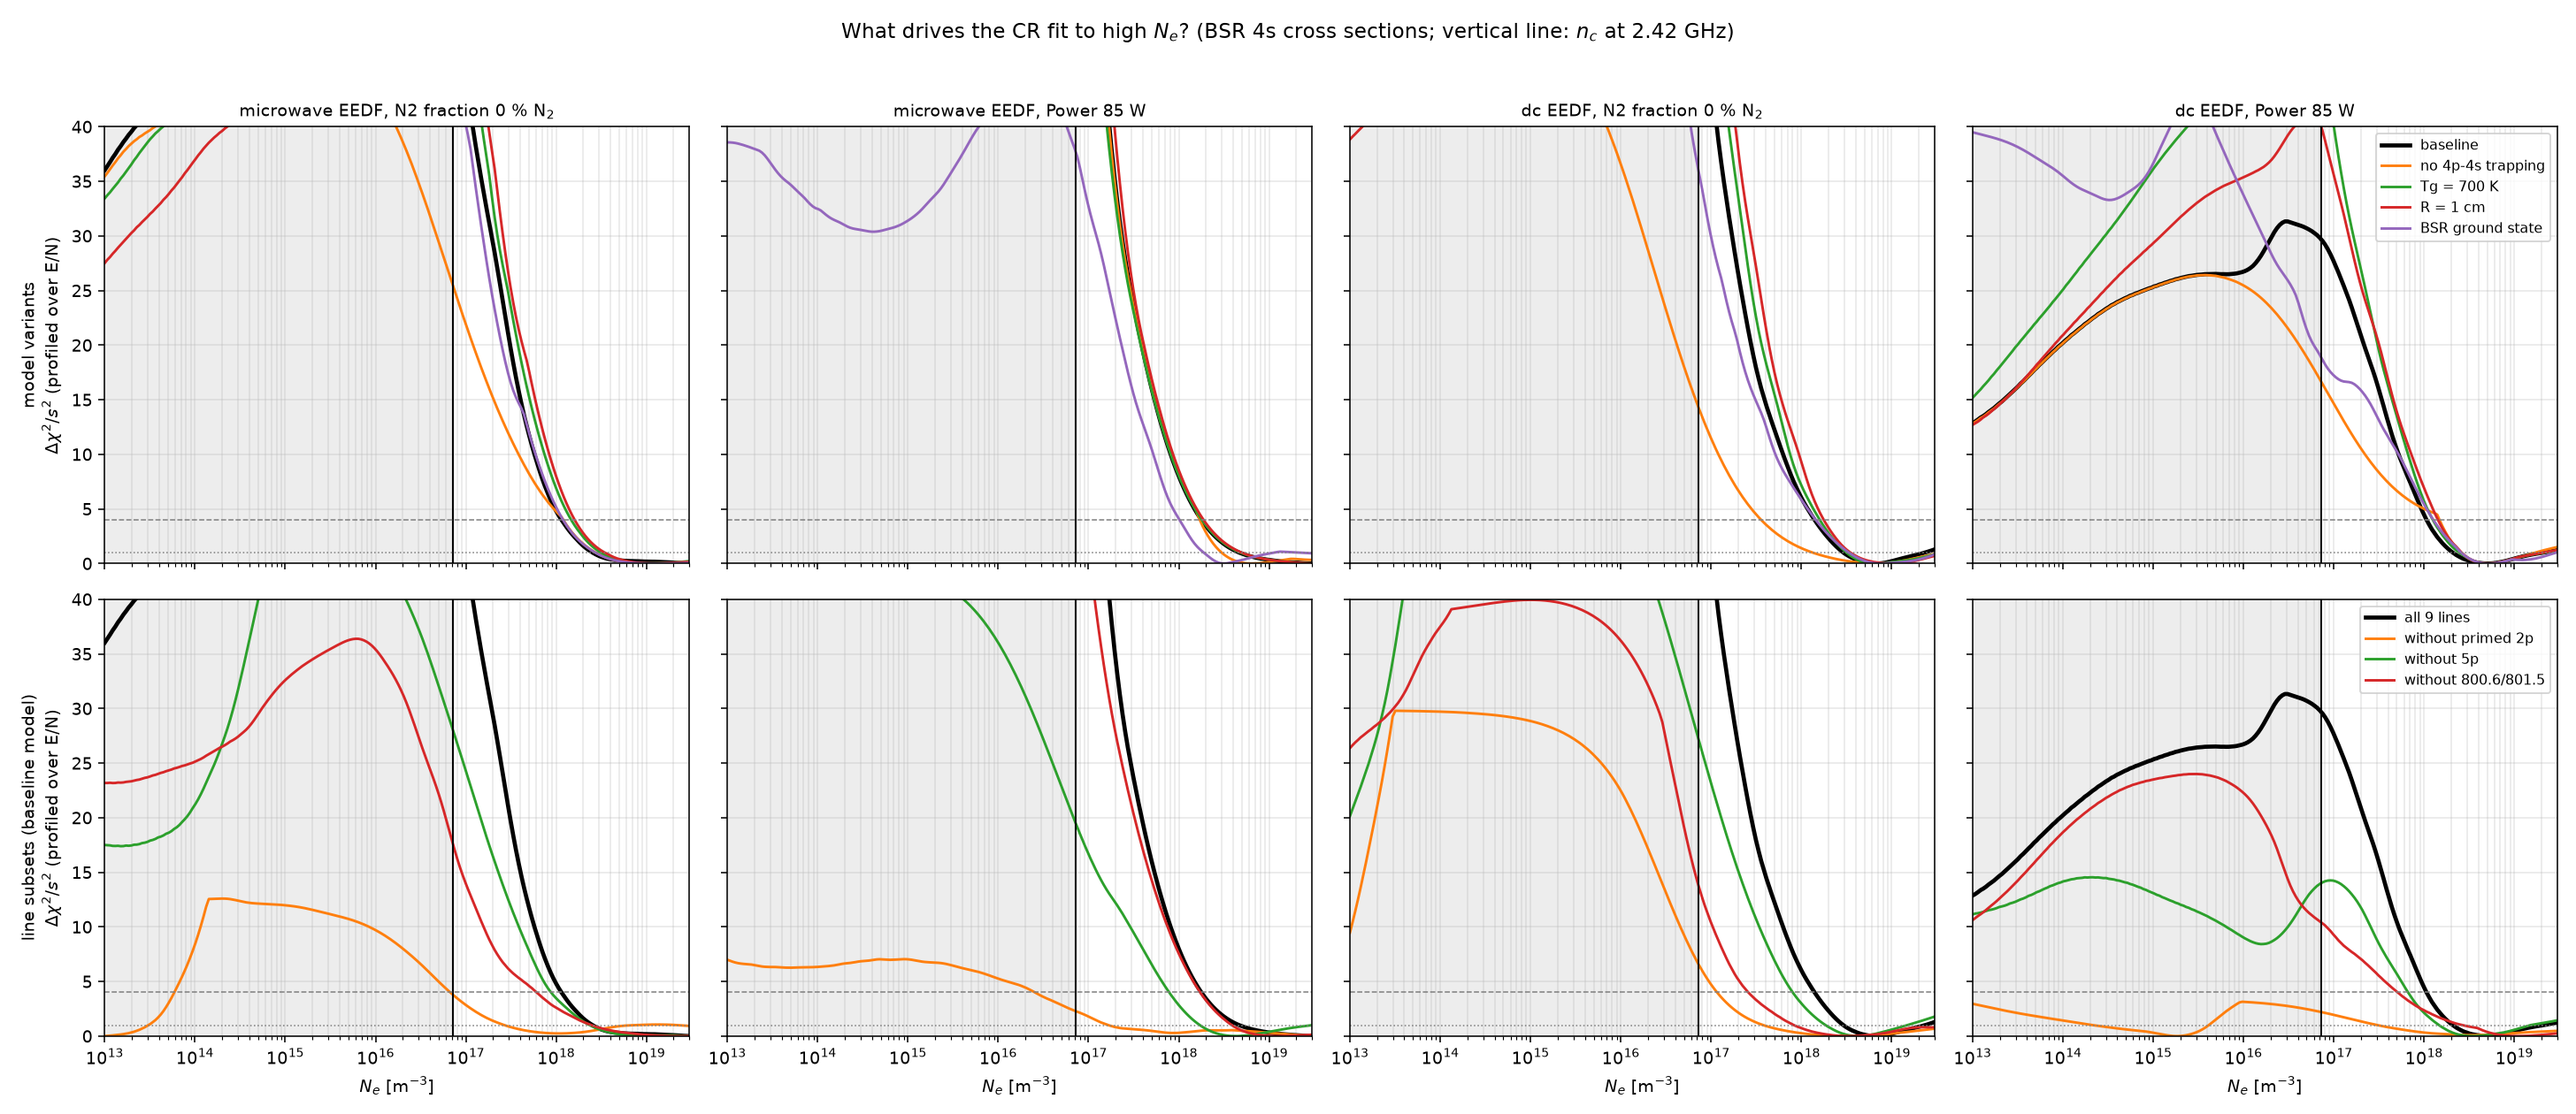
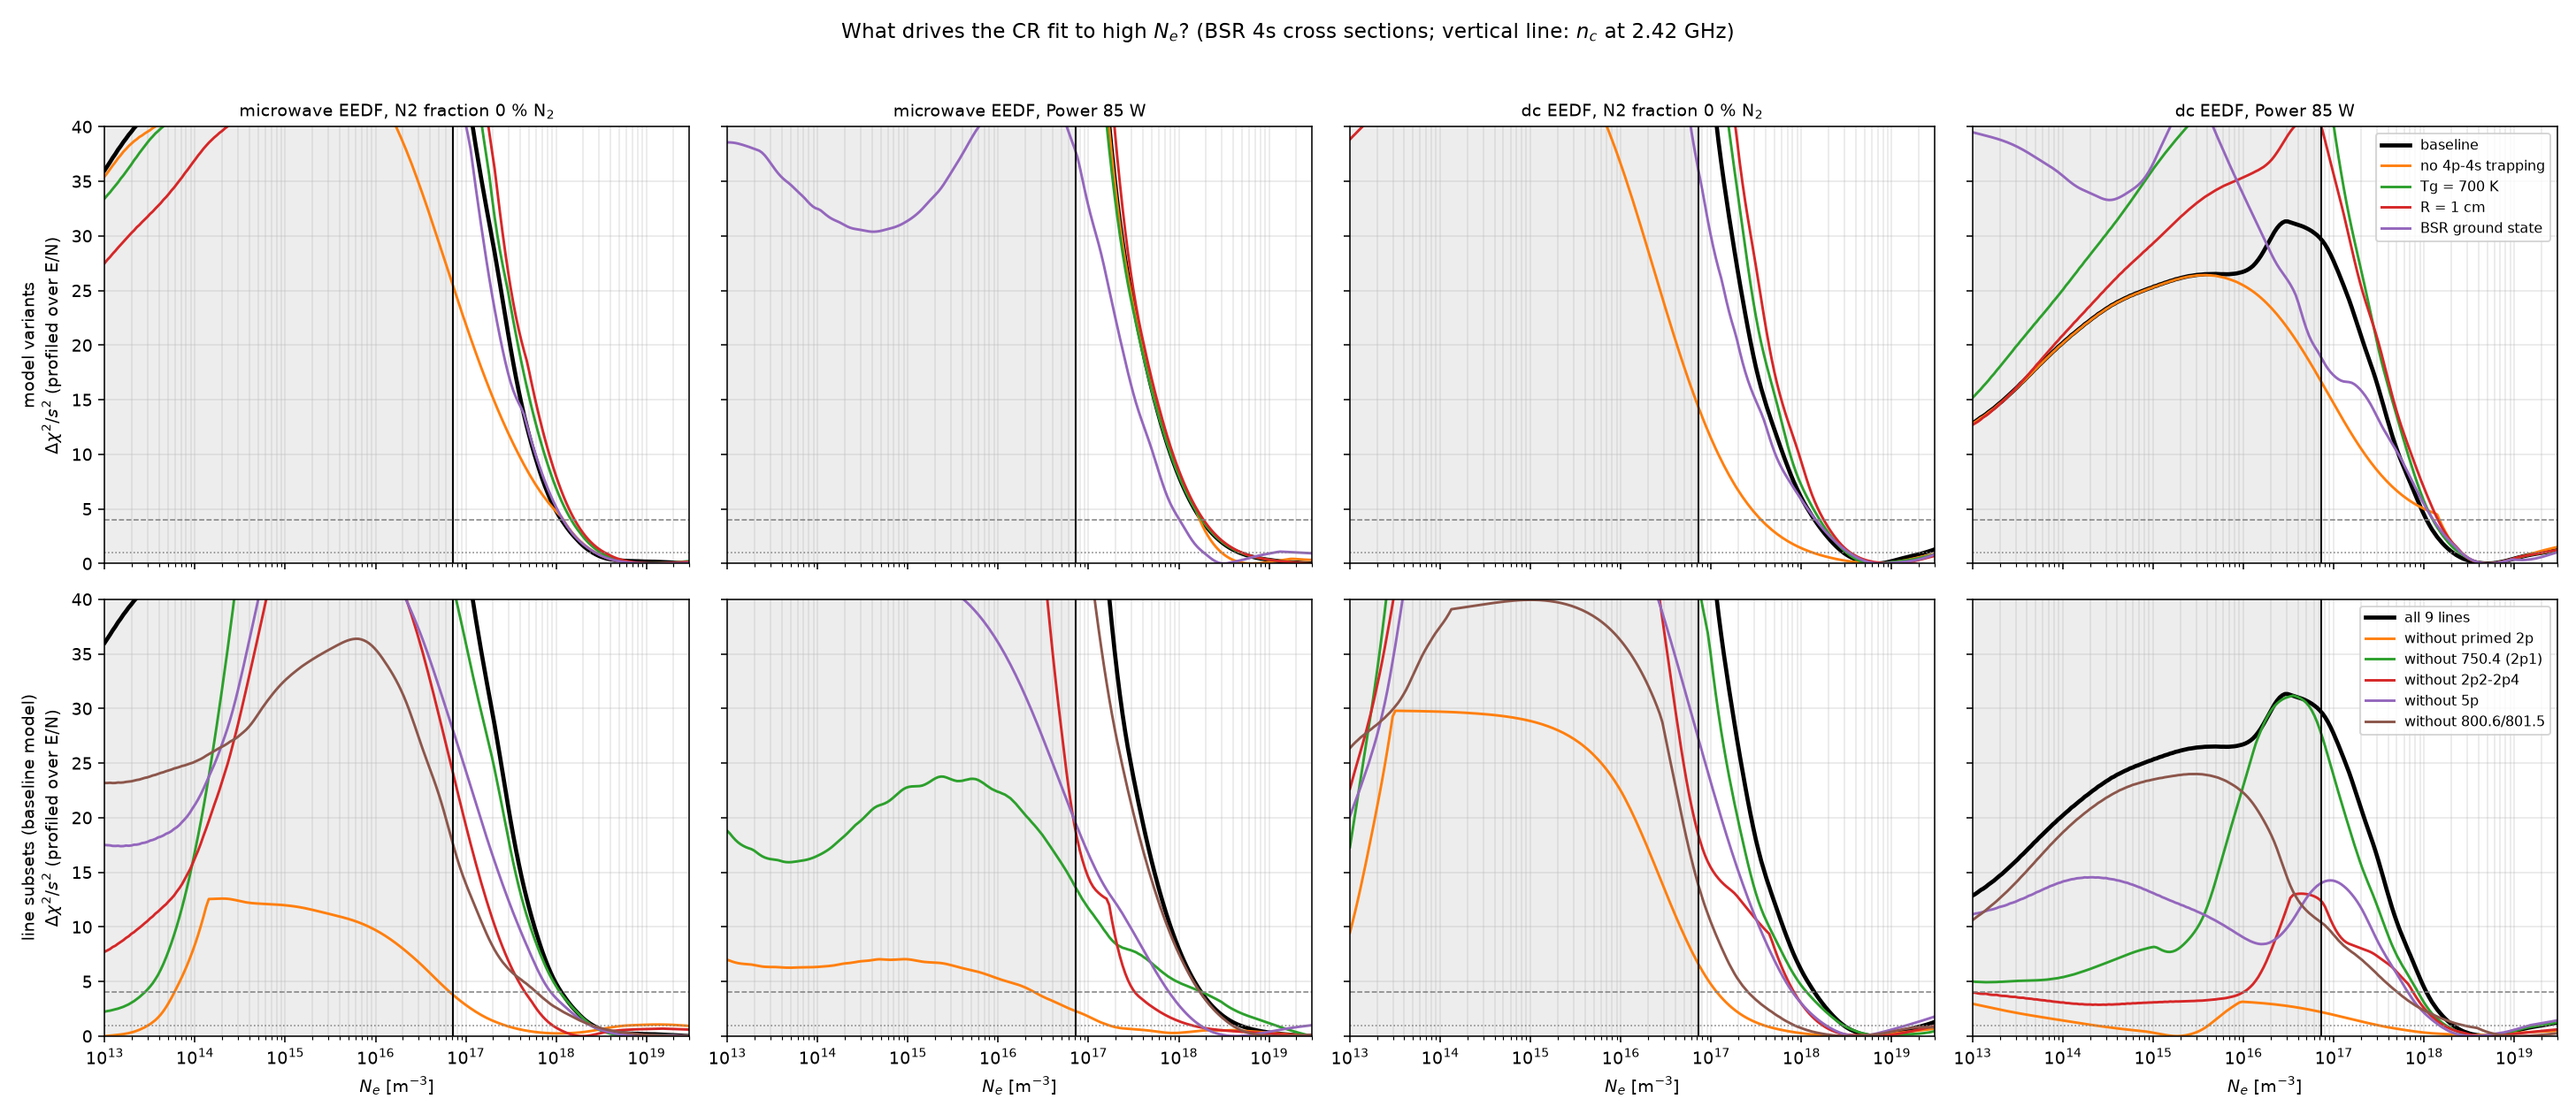
HighNeDiagnostics: test 750.4 nm (2p1) and 2p2-2p4 separately
Claude-Session: https://claude.ai/code/session_01KDQty5X8pF7r8tcZygAnB1

diff --git a/SmallAnalysisScripts/HighNeDiagnostics.py b/SmallAnalysisScripts/HighNeDiagnostics.py
@@ -10,7 +10,8 @@ fit results for
                    only on lines to the ground state), Tg = 700 K, R = 1 cm, and the ground-state
                    excitation from BSR (he.XSEC_GROUND)
   line subsets     the baseline fitted without the primed-core 2p lines (2p1-2p4: 750.4, 727.3,
-                   706.7, 794.8 nm), without the 5p lines, without 800.6 / 801.5 nm
+                   706.7, 794.8 nm), without 750.4 nm (2p1) alone, without 2p2-2p4 (keeping
+                   750.4 nm), without the 5p lines, without 800.6 / 801.5 nm
 
 Each variant has its own CR tables (Output/HighNeDiagnostics/<variant>/; ~1 min each, 20 in all
 on the first run). Results: high_ne_diagnostics.png and .csv in Output/HighNeDiagnostics/.
@@ -49,6 +50,8 @@ PRIMED_2P = ("4p7", "4p8", "4p9", "4p10")           # 2p4, 2p3, 2p2, 2p1 (2P1/2 
 SUBSETS = {    # name: feature -> keep?
     "all 9 lines": lambda f: True,
     "without primed 2p": lambda f: not any(u in PRIMED_2P for u in f.uppers.split("+")),
+    "without 750.4 (2p1)": lambda f: "4p10" not in f.uppers.split("+"),
+    "without 2p2-2p4": lambda f: not any(u in PRIMED_2P[:3] for u in f.uppers.split("+")),
     "without 5p": lambda f: not f.uppers.startswith("5p"),
     "without 800.6/801.5": lambda f: not 800.0 < f.wl < 802.0,
 }

diff --git a/SmallAnalysisScripts/README.md b/SmallAnalysisScripts/README.md
@@ -19,7 +19,7 @@ Run any of them from Spyder (F5) or `python SmallAnalysisScripts/<name>.py`.
 | `EEDFComparisonArN2.py` | Pure Ar and Ar + 10 % N2 at matched mean energy: MultiBolt 2-8 terms vs BOLSIG+; Maxwell vs BOLSIG+ (plain, e-e, superelastic); BOLSIG+ DC vs microwave with e-e + superelastic. Builds the libraries it needs | `Output/EEDFComparisonArN2/` |
 | `EEDFPhysicsFitComparison.py` | The pure-Ar CR fit with each EEDF library, with and without the response tilt | `Output/EEDFPhysics/` |
 | `FitSensitivity.py` | How much the fitted Ar I line pattern changes per decade of Ne and per 0.1 eV of Te_eff (after the free scale and response tilt), against the detection limit of the fit | `Output/FitSensitivity/` |
-| `HighNeDiagnostics.py` | Why the CR fit puts Ne at ~1e19: chi^2 vs Ne for model variants (no 4p-4s trapping, Tg, R, BSR ground state) and line subsets (without the primed-core 2p lines, the 5p lines, 800.6/801.5 nm) | `Output/HighNeDiagnostics/` |
+| `HighNeDiagnostics.py` | Why the CR fit puts Ne at ~1e19: chi^2 vs Ne for model variants (no 4p-4s trapping, Tg, R, BSR ground state) and line subsets (without the primed-core 2p lines, 750.4 nm alone, 2p2-2p4, the 5p lines, 800.6/801.5 nm) | `Output/HighNeDiagnostics/` |
 | `NitrogenAdmixture.py` | 1s5 / 1s3 metastable densities and Ar I line ratios vs N2 admixture (0-10 %), at fixed Te (Maxwellian) or fixed E/N (BOLSIG+ per mixture), with the N2 physics of Scripts/MainFileWithNitrogen.py | `Output/NitrogenAdmixture/` |
 | `Plot_Slit_Function_Slides.py` | Slide figures of the echelle slit function (Hg 435.8 nm vs a delta line) and FWHM vs wavelength | `MolecularFitting/Slit_Functions/Figures/Slides/` |
 | `SweepTrends.py` | Te_eff, Ne and the scale factor s of the CR fit along the N2-fraction and power sweeps (each N2 fraction with its own mixture EEDF and CR model; microwave and DC), Ne also with one common s per sweep (absolute intensities), BSR vs RDW 4s cross sections | `Output/SweepTrends/` |

diff --git a/Experimental_Data/Results/2026-10-04_BSR_4s_cross_sections/README.md b/Experimental_Data/Results/2026-10-04_BSR_4s_cross_sections/README.md
@@ -89,6 +89,11 @@ shows what drives the fit there (pure Ar and 2.4 % N2 at 85 W, both EEDFs):
   2P1/2 core relative to the 2P3/2 ones (750.4 nm ~e^1 too weak, 800.6/801.5 nm ~e^0.8 too
   strong at n_c, also without any trapping). It reaches the observed, strongly mixed 4p
   distribution only through electron-collision mixing at ~1e19.
+- **No single primed line does it.** Dropping only 750.4 nm (2p1) leaves the best-fit Ne at
+  6e18-1.1e19 m^-3 (Delta chi^2/s^2 at n_c 51/59/57/30 -> 41/14/41/28 for microwave 0 % / 85 W,
+  dc 0 % / 85 W). Dropping 2p2-2p4 (706.7, 727.3, 794.8 nm) but keeping 750.4 nm does more
+  (best fit 3-8e18, Delta chi^2/s^2 at n_c 12-24, at 1e18 0.8-3). Only removing all four frees
+  Ne. The pull comes from the primed-core group as a whole, mostly from 2p2-2p4.
 - **Not the cause** (minimum stays at Ne >= 2e18): radiation trapping of the 4p -> 4s lines
   (switched off), Tg = 700 K, R = 1 cm, the 5p lines (dropped), 800.6/801.5 nm (dropped).
 - **Partly** (best-fit Ne at most 1.7x lower, not at all with the DC EEDF; Delta chi^2/s^2 at n_c
